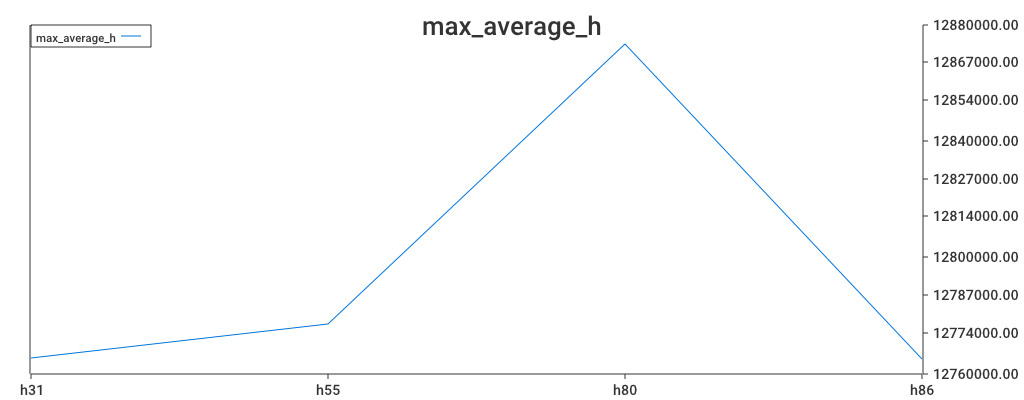
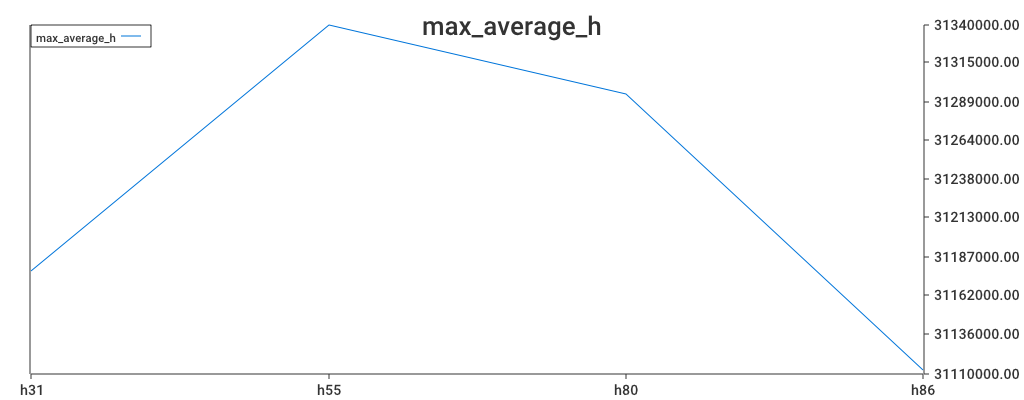
right answer

diff --git a/src/server/server.go b/src/server/server.go
@@ -19,7 +19,7 @@ type Data struct {
 	H     string
 	Day   int
 	Time  string
-	User  string
+	Count int
 	Speed float64
 }
 
@@ -32,10 +32,10 @@ var (
 	h55       = make(map[string]float64)
 	h80       = make(map[string]float64)
 	h86       = make(map[string]float64)
-	users_h31 = make(map[string]int)
-	users_h55 = make(map[string]int)
-	users_h80 = make(map[string]int)
-	users_h86 = make(map[string]int)
+	count_h31 = make(map[string]int)
+	count_h55 = make(map[string]int)
+	count_h80 = make(map[string]int)
+	count_h86 = make(map[string]int)
 )
 
 var h_max = make([]float64, 4)
@@ -92,10 +92,11 @@ func plot(x []string, h []float64, title string) {
 func create_plot(w http.ResponseWriter, r *http.Request) {
 	var data Choice
 	x := []string{"h31", "h55", "h80", "h86"}
-	h_max[0] = max(h31) / float64(len(users_h31))
-	h_max[1] = max(h55) / float64(len(users_h55))
-	h_max[2] = max(h80) / float64(len(users_h80))
-	h_max[3] = max(h86) / float64(len(users_h86))
+
+	h_max[0] = max_avg(h31, count_h31)
+	h_max[1] = max_avg(h55, count_h55)
+	h_max[2] = max_avg(h80, count_h80)
+	h_max[3] = max_avg(h86, count_h86)
 
 	req_err := json.NewDecoder(r.Body).Decode(&data)
 	if req_err != nil {
@@ -106,19 +107,16 @@ func create_plot(w http.ResponseWriter, r *http.Request) {
 	for i := 0; i < len(x); i++ {
 		fmt.Printf("%s - %.7f\n", x[i], h_max[i])
 	}
-
-	fmt.Println("User h31 number - ", len(users_h31))
-	fmt.Println("User h55 number - ", len(users_h55))
-	fmt.Println("User h80 number - ", len(users_h80))
-	fmt.Println("User h86 number - ", len(users_h86))
 }
 
-func max(h map[string]float64) float64 {
+func max_avg(h map[string]float64, count_h map[string]int) float64 {
 	max := 0.0
 
 	for key := range h {
-		if max < h[key] {
-			max = h[key]
+		avg := h[key] / float64(count_h[key])
+
+		if max < avg {
+			max = avg
 		}
 	}
 
@@ -135,16 +133,16 @@ func handler(w http.ResponseWriter, r *http.Request) {
 	switch ch := data.H; ch {
 	case "h31":
 		h31[data.Time] = h31[data.Time] + data.Speed
-		users_h31[data.User] = 1
+		count_h31[data.Time] = count_h31[data.Time] + data.Count
 	case "h55":
 		h55[data.Time] = h55[data.Time] + data.Speed
-		users_h55[data.User] = 1
+		count_h55[data.Time] = count_h55[data.Time] + data.Count
 	case "h80":
 		h80[data.Time] = h80[data.Time] + data.Speed
-		users_h80[data.User] = 1
+		count_h80[data.Time] = count_h80[data.Time] + data.Count
 	case "h86":
 		h86[data.Time] = h86[data.Time] + data.Speed
-		users_h86[data.User] = 1
+		count_h86[data.Time] = count_h86[data.Time] + data.Count
 	default:
 		fmt.Println("Error")
 	}

diff --git a/src/agent/agent.go b/src/agent/agent.go
@@ -32,12 +32,12 @@ type Time_line struct {
 type Data struct {
 	H     string  `json:"H"`
 	Day   int     `json:"Day"`
-	User  string  `json:"User"`
+	Count int     `json:"Count"`
 	Time  string  `json:"Time"`
 	Speed float64 `json:"Speed"`
 }
 
-const DIR = "/home/obrol/Downloads/"
+const DIR = "/home/obrol/Downloads"
 
 func read_csv_file(file_path string) [][]string {
 	f, err := os.Open(file_path)
@@ -55,14 +55,14 @@ func read_csv_file(file_path string) [][]string {
 	return records
 }
 
-func send_request(h string, day int, user string, time string, speed float64) {
+func send_request(h string, day int, count int, time string, speed float64) {
 	var values Data
 
 	values.Day = day
 	values.Speed = speed
 	values.Time = time
 	values.H = h
-	values.User = user
+	values.Count = count
 
 	json_data, err := json.Marshal(values)
 
@@ -122,17 +122,10 @@ func new_flow(path string, file_name string) {
 		}
 	}).Filter(func(src Time_line) bool {
 		return src.Filter
-	}).Map(func(src Time_line) flow.KeyValue {
-		return flow.KeyValue{src.Time, src} // max average speed
-	}).ReduceByKey(func(x Time_line, y Time_line) Time_line {
-		x.Speed = x.Speed + y.Speed
-		x.Count = x.Count + y.Count
-		return x
-	}).Map(func(time string, obj Time_line) {
-		avg_speed := obj.Speed / float64(obj.Count)
+	}).Map(func(obj Time_line) {
 		str := strings.Split(file_name, ".")
 
-		send_request(str[1], int(obj.Day), str[2], obj.Time, avg_speed)
+		send_request(str[1], int(obj.Day), obj.Count, obj.Time, obj.Speed)
 	}).Run()
 }
 
